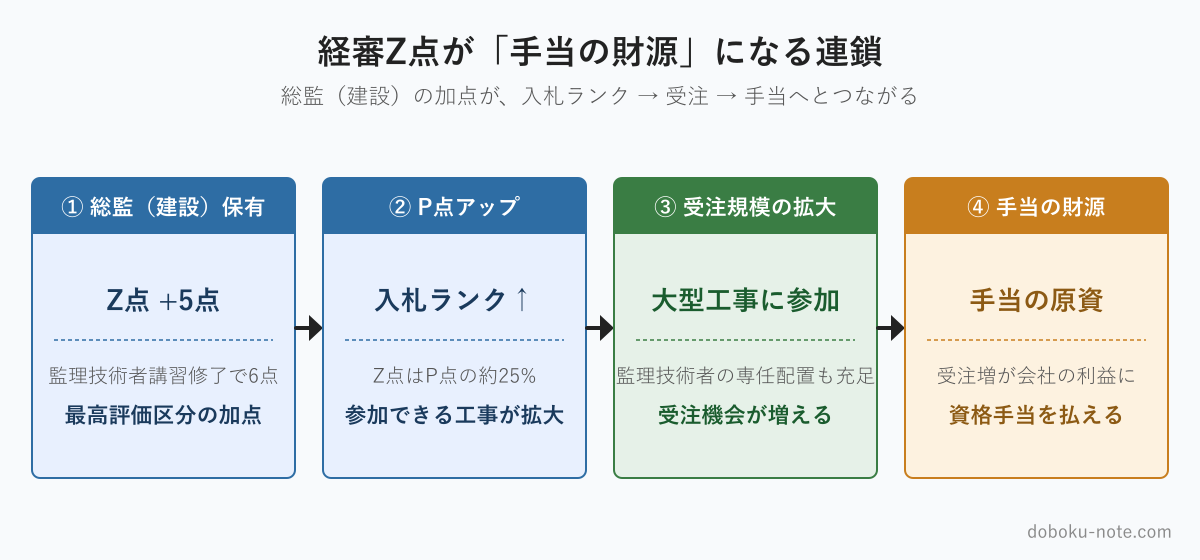
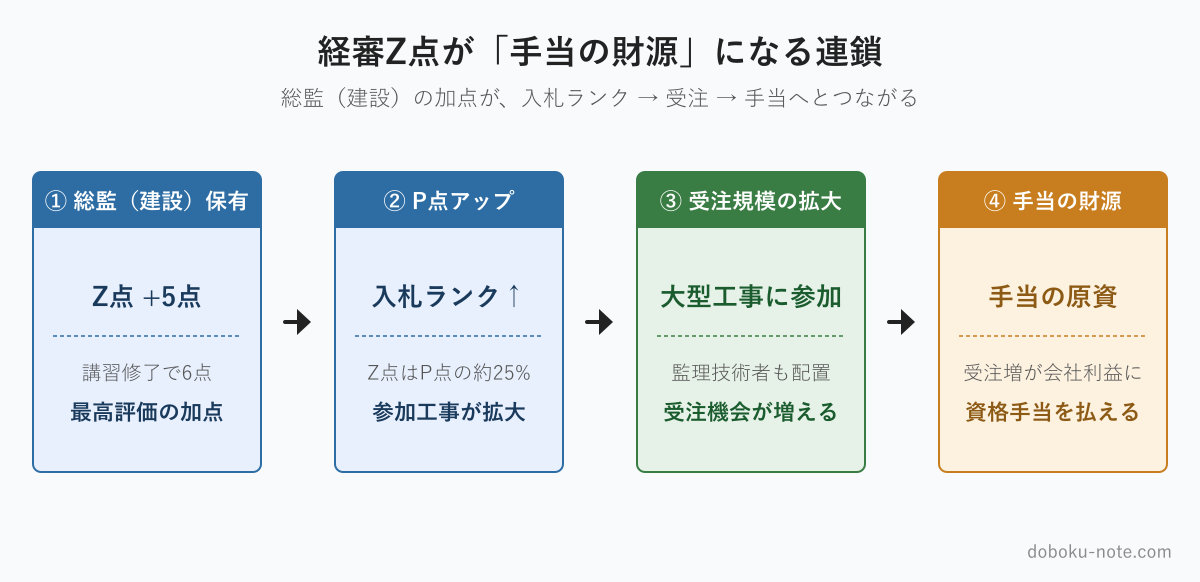
fix(note): Phase2レビューで判明したファクト誤り・図版policy違反を修正
ファクトチェック（note-fact-checker）の指摘:
- 民間メリット R7総監合格を 615名/23.9% → 584名/22.7%（内部DB exam-index・
  キーワードページと一致）、全体比 22.3% → 21.2% に訂正（本文+money-chain図）
- money-chain図 年収 700-900万 → 600-850万（キーワードページ確定値）、
  月手当 2〜7.5万 → 1〜7.5万（本文整合）
- ペイするか ケースA回収 約7年 → 約5年、ケースC 約2年 → 初年度（グロス累計の算数誤り）

図版監査（note-figure-auditor）の指摘:
- figure-1-roi-curve フォント20px→22px（本文ラベル下限）・H720→760（末尾余白80）
- figure-2-keishin-chain カード間隔1px→24px確保・末尾余白確保で再生成

diff --git a/docs/note/技術士総監/総監受験は投資としてペイするか/article.md b/docs/note/技術士総監/総監受験は投資としてペイするか/article.md
@@ -222,21 +222,21 @@ cover:
 
 **30代**（残り勤続30年）
 
-- ケースA（年12万円）：約7年で回収、累計380万円
+- ケースA（年12万円）：約5年で回収、累計380万円
 - ケースB（年36万円）：約2年で回収、累計1,105万円
-- ケースC（年60万円）：約2年で回収、累計1,830万円
+- ケースC（年60万円）：初年度で回収、累計1,830万円
 
 **40代**（残り勤続20年）
 
-- ケースA（年12万円）：約7年で回収、累計260万円
+- ケースA（年12万円）：約5年で回収、累計260万円
 - ケースB（年36万円）：約2年で回収、累計745万円
-- ケースC（年60万円）：約2年で回収、累計1,230万円
+- ケースC（年60万円）：初年度で回収、累計1,230万円
 
 **50代**（残り勤続10年）
 
-- ケースA（年12万円）：約7年で回収、累計140万円
+- ケースA（年12万円）：約5年で回収、累計140万円
 - ケースB（年36万円）：約2年で回収、累計385万円
-- ケースC（年60万円）：約2年で回収、累計630万円
+- ケースC（年60万円）：初年度で回収、累計630万円
 
 注: 累計は一時金 + 年手当 × 在職年数のグロス値（コスト 76 万円を含まない）。
 
